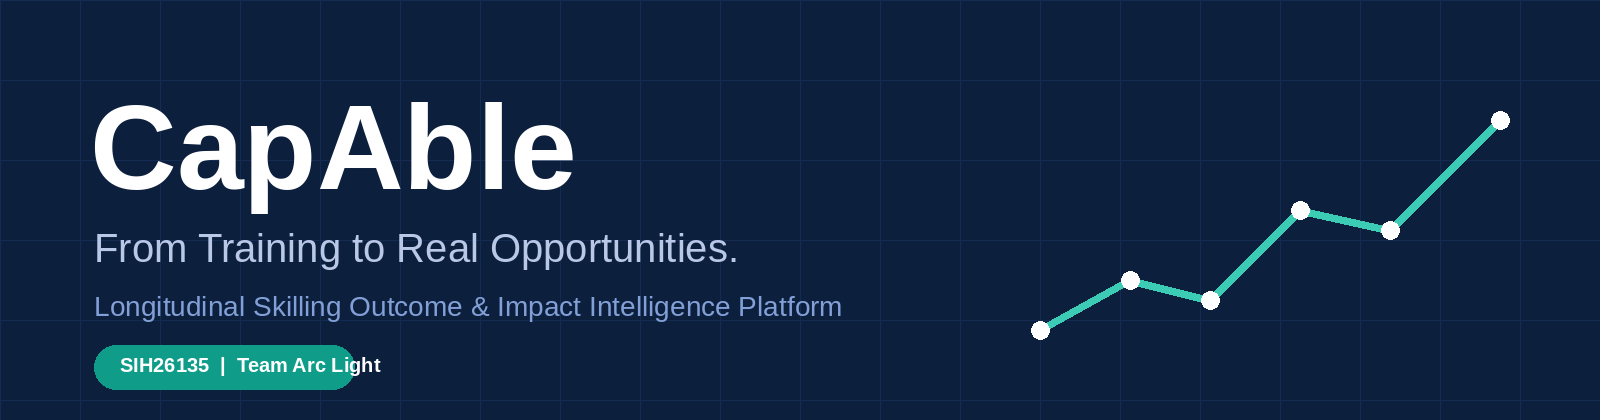
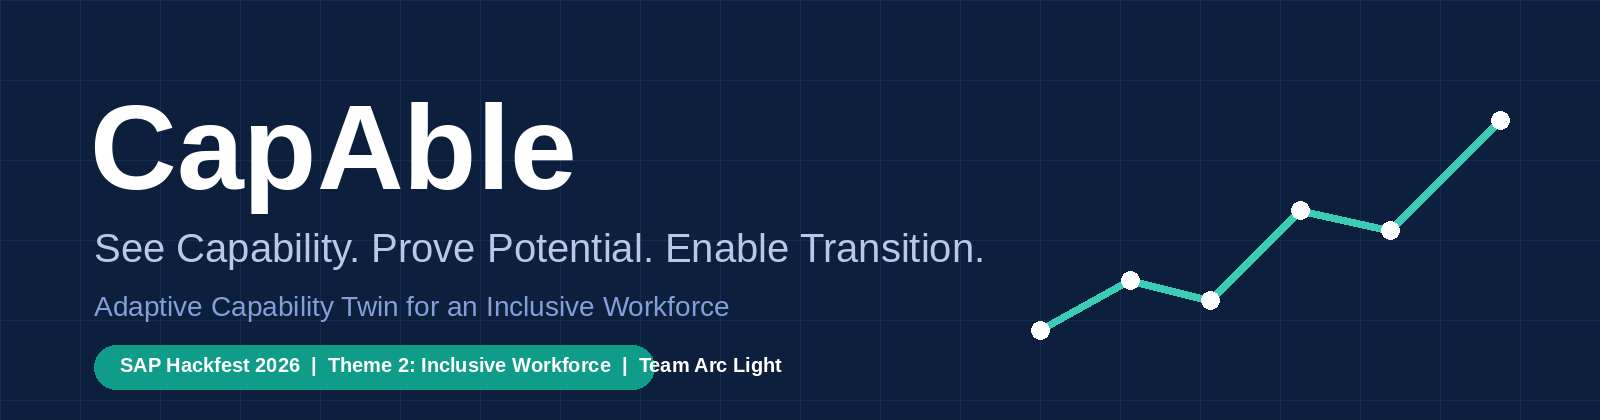
Add files via upload

Changed region(s): [[0.0625, 0.5571, 0.625, 0.65], [0.0625, 0.8048, 0.5, 0.9286], [0.0625, 0.7119, 0.5312, 0.7738]]

diff --git a/showcase/index.html b/showcase/index.html
@@ -3,7 +3,7 @@
 <head>
 <meta charset="utf-8">
 <meta name="viewport" content="width=device-width, initial-scale=1, viewport-fit=cover">
-<title>CapAble: From Training to Real Opportunities</title>
+<title>CapAble: See Capability. Prove Potential. Enable Transition.</title>
 <link rel="preconnect" href="https://fonts.googleapis.com">
 <link href="https://fonts.googleapis.com/css2?family=Manrope:wght@400;600;800&display=swap" rel="stylesheet">
 <style>
@@ -72,8 +72,8 @@ footer a{margin-right:16px;font-weight:600}
 
 <main id="top">
 <div class="hero">
-<h1>From training to real opportunities.</h1>
-<p class="lead">CapAble is an AI-powered platform connecting students, institutions and employers. Our SIH26135 goal is to follow trainees past course completion, so programmes can see what happens next.</p>
+<h1>See capability. Prove potential. Enable transition.</h1>
+<p class="lead">CapAble turns evidence of what people can actually do into a living Capability Twin, so hiring and career moves rest on capability, not pedigree. Built by Team Arc Light for SAP Hackfest 2026, Theme 2: Inclusive Workforce.</p>
 <div class="btns">
 <a class="btn p" href="https://capable-alpha.vercel.app" target="_blank" rel="noopener noreferrer">Explore live prototype</a>
 <a class="btn s" href="#video">Watch project demo</a>
@@ -102,8 +102,8 @@ footer a{margin-right:16px;font-weight:600}
 </section>
 
 <section id="gallery">
-<h2>The journey, from classroom to workplace</h2>
-<p class="sub">The people CapAble is built for, shown at each stage.</p>
+<h2>Who CapAble is built for</h2>
+<p class="sub">Candidates, institutions and employers around one capability record.</p>
 <div class="gal">
 <figure><svg viewBox="0 0 400 260" role="img" aria-label="Illustration: trainees seated in a classroom facing a board with a bar chart"><rect width="400" height="260" fill="#dbe8fb"/><rect x="90" y="24" width="220" height="100" rx="8" fill="#fff"/><g fill="#2354d6"><rect x="120" y="84" width="22" height="26"/><rect x="156" y="66" width="22" height="44"/><rect x="192" y="76" width="22" height="34"/><rect x="228" y="48" width="22" height="62" fill="#0f9d8a"/></g><rect y="220" width="400" height="40" fill="#b9cff2"/><use href="#p" x="50" y="150" width="40" height="80" fill="#0c1f3d"/><use href="#p" x="130" y="150" width="40" height="80" fill="#2354d6"/><use href="#p" x="210" y="150" width="40" height="80" fill="#0f9d8a"/><use href="#p" x="290" y="150" width="40" height="80" fill="#5b7bc4"/></svg>
 <figcaption><b>Training and certification</b><span>Learners build skills in classrooms and workshops.</span></figcaption></figure>
@@ -125,7 +125,7 @@ footer a{margin-right:16px;font-weight:600}
 </main>
 
 <footer><div class="wrap" style="padding:0">
-<p><b>CapAble</b> | Longitudinal Skilling Outcome &amp; Impact Intelligence Platform<br>Team Arc Light | SIH26135</p>
+<p><b>CapAble</b> | Adaptive Capability Twin for an Inclusive Workforce<br>Team Arc Light | SAP Hackfest 2026, Theme 2</p>
 <p><a href="https://capable-alpha.vercel.app" target="_blank" rel="noopener noreferrer">Prototype</a><a href="https://www.youtube.com/watch?v=InX9qLdTvsY" target="_blank" rel="noopener noreferrer">Demo video</a><a href="https://github.com/Devengoyal885/Access-Hire" target="_blank" rel="noopener noreferrer">Frontend code</a><a href="https://github.com/Devengoyal885/accesshireml" target="_blank" rel="noopener noreferrer">ML code</a></p>
 </div></footer>
 </div>

diff --git a/README.md b/README.md
@@ -1,25 +1,24 @@
 <p align="center">
-  <img src="assets/diagrams/banner.png" alt="CapAble: From Training to Real Opportunities" width="100%">
+  <img src="assets/diagrams/banner.png" alt="CapAble: See Capability. Prove Potential. Enable Transition." width="100%">
 </p>
 
 <p align="center">
   <a href="https://capable-alpha.vercel.app"><img alt="Live prototype" src="https://img.shields.io/badge/Live%20prototype-capable--alpha.vercel.app-2354d6"></a>
   <a href="https://www.youtube.com/watch?v=InX9qLdTvsY"><img alt="Demo video" src="https://img.shields.io/badge/Demo-YouTube-c4302b"></a>
-  <img alt="SIH26135" src="https://img.shields.io/badge/SIH-26135-0f9d8a">
+  <img alt="SAP Hackfest 2026" src="https://img.shields.io/badge/SAP%20Hackfest-2026-0070f3">
+  <img alt="Theme 2" src="https://img.shields.io/badge/Theme%202-Inclusive%20Workforce-0f9d8a">
   <img alt="Team" src="https://img.shields.io/badge/Team-Arc%20Light-0c1f3d">
 </p>
 
-# CapAble
+# CapAble: Adaptive Capability Twin for an Inclusive Workforce
 
-**Longitudinal Skilling Outcome & Impact Intelligence Platform**
+> A résumé is a claim. A Capability Twin is a record.
 
-> Training completion is not the finish line. CapAble is built to measure what happens next.
-
-CapAble is our response to **SIH26135: difficulties in tracking employment outcomes, skill gaps, and the impact of skilling initiatives.** It connects students, training institutions and employers around one evidence-based record of capability, so programmes can see which skills turn into real opportunities and where the gaps are.
+CapAble is Team Arc Light's entry for **SAP Hackfest 2026 (IIIT Delhi), Theme 2: Inclusive Workforce.** It makes what a person can actually do visible, checks it through practical work, and keeps that record up to date, so hiring and career moves are decided on capability instead of pedigree, degree titles or career gaps.
 
 ## Contents
 
-[Quick links](#quick-links) · [Problem](#the-problem) · [Approach](#our-approach) · [Demo](#demo-video) · [Status](#project-status-what-is-built-and-what-is-not) · [Capability engine](#the-capability-twin-engine) · [Architecture](#architecture) · [ML service](#ml-service) · [Run locally](#run-the-frontend-locally) · [Gallery](#gallery) · [Roadmap](#roadmap) · [Privacy](#privacy-and-responsible-use) · [Team](#team)
+[Quick links](#quick-links) · [Problem](#the-problem) · [Solution](#our-solution) · [Demo](#demo-video) · [Theme 2 fit](#how-capable-fits-theme-2) · [Status](#project-status-what-is-built-and-what-is-not) · [Capability engine](#the-capability-twin-engine) · [Architecture](#architecture) · [ML service](#ml-service) · [Run locally](#run-the-frontend-locally) · [Gallery](#gallery) · [Roadmap](#roadmap) · [Responsible AI](#responsible-ai-and-privacy) · [Team](#team)
 
 ## Quick links
 
@@ -35,29 +34,28 @@ CapAble is our response to **SIH26135: difficulties in tracking employment outco
 
 ## The problem
 
-Skilling programmes report how many people completed training. Few can say what happened afterwards: who found work, who kept the job, whose wages grew, and which missing skills held people back. Without that follow-up data, institutions cannot improve courses and administrators cannot compare programmes fairly.
+Talent is not scarce, but capability is often hidden. Static résumés, degree and employer-name filters, self-declared skills and career gaps push capable people out of the funnel. Employers, in turn, cannot easily verify what a candidate can do, and institutions cannot see the real skill picture of their students.
 
-<p align="center"><img src="assets/diagrams/stakeholders.png" alt="One platform serving trainees, training providers, employers and programme administrators" width="90%"></p>
+<p align="center"><img src="assets/diagrams/stakeholders.png" alt="One capability record serving candidates, institutions, employers and human reviewers" width="90%"></p>
 
-## Our approach
+## Our solution
 
-CapAble follows a five-step loop. Each step feeds the next, and the last step feeds back into the first.
+CapAble replaces the static résumé with a **living Capability Twin** and moves each person through one loop: understand evidence, translate it to capabilities, find the gap to a target role, verify with practical work, and match fairly.
 
-<p align="center"><img src="assets/diagrams/workflow.png" alt="Track, verify, analyze, act and re-measure workflow with a feedback loop" width="100%"></p>
+<p align="center"><img src="assets/diagrams/workflow.png" alt="Understand, translate, find the gap, verify, match fairly, with a feedback loop to the Capability Twin" width="100%"></p>
 
 ```mermaid
 flowchart LR
-  A[Training and certification] --> B[Consent-based trainee record]
-  B --> C[Follow-ups and outcome collection]
-  C --> D[Employer confirmation]
-  D --> E[Longitudinal analysis]
-  E --> F[Skill-gap findings]
-  F --> G[Targeted intervention]
-  G --> H[Re-measurement]
-  H -.-> C
+  A[Evidence: resume, projects, work] --> B[Capability Translator]
+  B --> C[Capability Twin]
+  C --> D[Role-specific skill gap]
+  D --> E[Shortest learning path]
+  D --> F[Practical verification]
+  F --> G[Verified evidence]
+  G --> C
+  C --> H[Opportunity match + bias audit]
+  H --> I[Human decision]
 ```
-
-This is the target workflow for SIH26135. The [status section](#project-status-what-is-built-and-what-is-not) says which parts exist today.
 
 ## Demo video
 
@@ -65,37 +63,56 @@ This is the target workflow for SIH26135. The [status section](#project-status-w
 
 Click the image to watch the demo on YouTube.
 
+## How CapAble fits Theme 2
+
+SAP's Hackfest 2026 page describes the Inclusive Workforce theme as designing systems where fairness is an architectural principle, and it expects solutions where each agent has a clear role and explicit handoffs to humans. The table maps our work to that, based on a read of the code in the linked repositories.
+
+| Theme 2 idea | What CapAble does | Status |
+|---|---|---|
+| Make skills visible beyond a résumé | Capability Translator: FastAPI service with an `all-mpnet-base-v2`-based model against a 469-capability taxonomy, with an explainability breakdown | In the repositories |
+| Learning and reskilling | Learning-pathway agent (Gemini) and a data file of SAP Learning Hub courses | In the repositories |
+| Fair matching | Opportunity-match agent, with an evidence trail for each match | In the repositories |
+| Fairness as architecture | Bias-audit agent (Gemini) and an enterprise workforce console; AI recommends and a human decides | Bias-audit route in the repositories; broader fairness agents planned |
+| Accessibility | Synapse UI toggle for OpenDyslexic type and high-contrast reading modes | In the repositories |
+| Proof of capability | 4-step practical verification flow shown in the Action Center | Prototype flow; automatic task generation and scoring not built |
+| People and skills data | Demo personas in `lib/mockData.ts` | Demo data only |
+
+> Note for the team: we could not open SAP's full theme brief, only its public summary. Paste the exact Theme 2 problem statement into this section so the wording matches what judges will read.
+
 ## Project status: what is built and what is not
 
-We would rather be exact than impressive. The numbers below come from our internal codebase audit dated 2026-09-25.
+We would rather be exact than impressive.
+
+**In the frontend and ML repositories (verified by reading the code):**
+- Next.js app with dashboard, capability, opportunities, resume, actions, workspace, workforce, profile and roadmap pages.
+- Four server-side agent routes: `translate-capability`, `learning-pathway`, `opportunity-match`, `bias-audit`.
+- FastAPI ML service with four endpoints and precomputed capability embeddings.
+- Synapse UI accessibility toggle.
+- Demo data uses sample personas, not real people.
+
+**Deployed prototype (capable-alpha.vercel.app):** an internal audit dated 2026-09-25 found **40 of 137 audited features fully built, 13 partial or new, and 84 not built.**
 
 <p align="center"><img src="assets/diagrams/feature_audit.png" alt="Stacked bar chart of fully built, partial and not-built features across nine areas, 40 of 137 fully built" width="90%"></p>
 
-**40 of 137 audited features are fully built, 13 are partial or newly added, and 84 are not built yet.** The prototype covers:
-
 | Area | Working today |
 |---|---|
-| Candidate career | AI career-path mapping, skill-gap analysis, personalised learning paths, QR-linked verifiable certificates, public profile, portfolio with GitHub sync, resume tailoring, ATS score |
-| Interview prep | AI voice mock interview, session history and statistics, live filler-word counter |
-| Institution (TPO) | Placement dashboard, bulk CSV student invite, NAAC/NIRF report, faculty dashboard, CSV skill-matrix export |
+| Candidate career | AI career-path mapping, skill-gap analysis, personalised learning paths, QR-linked certificates, public profile, portfolio with GitHub sync, resume tailoring, ATS score |
+| Interview prep | AI voice mock interview, session history and statistics, filler-word counter |
+| Institution | Placement dashboard, bulk CSV invite, NAAC/NIRF report, faculty dashboard, skill-matrix export |
 | Employer | Role posting, candidate pipeline, offer-letter generation, interview scheduling |
-| Platform | Role-based Firestore security rules, in-app notifications, dark mode |
+| Platform | Role-based security rules, in-app notifications, dark mode |
 
-**SIH26135-specific features that are not built yet** (see [Roadmap](#roadmap)): automated trainee follow-ups, employer confirmation of employment and retention, longitudinal wage and attrition analytics, and outcome-driven intervention tracking. The existing institution dashboard, pipeline and skill-gap analysis are the foundation these will build on.
-
-Full detail: [`docs/FEATURE_AUDIT.md`](docs/FEATURE_AUDIT.md).
+**Not built yet:** equity-nudge and job-fairness agents, automated bias-audit reports in the deployed app, auto-scored practical tasks, WCAG compliance, mobile app. Details: [`docs/FEATURE_AUDIT.md`](docs/FEATURE_AUDIT.md).
 
 ## The Capability Twin engine
 
-The repositories linked above implement the AccessHire **Adaptive Capability Twin**, the skills-intelligence layer behind CapAble. A résumé is a claim; a Capability Twin is a record that is updated whenever new evidence arrives.
-
 <p align="center"><img src="assets/diagrams/capability_loop.png" alt="Closed loop: evidence to Capability Twin to skill gap to practical task to evaluation to verified evidence and back to the Twin" width="90%"></p>
 
-A Twin describes six dimensions of each capability: **proficiency, context, evidence, confidence, recency and autonomy.** Capabilities are inferred from free text using an `all-mpnet-base-v2`-based model against a 469-capability taxonomy, then shown with an explainability breakdown (semantic similarity, keyword overlap, evidence weighting).
+A Twin describes six dimensions of each capability: **proficiency, context, evidence, confidence, recency and autonomy.** The loop is the core idea: new work becomes new evidence, which updates the Twin and improves future matching. Verification is a flow in the prototype today; the automated scoring step is planned.
 
 ## Architecture
 
-<p align="center"><img src="assets/diagrams/architecture.png" alt="Layered system architecture: users, Next.js web app, AI and data services, planned outcome-tracking services, outputs" width="100%"></p>
+<p align="center"><img src="assets/diagrams/architecture.png" alt="Layered system architecture: users, Next.js web app, AI and data services, inclusive-workforce layer, outputs" width="100%"></p>
 
 Solid boxes exist in the repositories. Dashed boxes are planned.
 
@@ -104,22 +121,23 @@ Solid boxes exist in the repositories. Dashed boxes are planned.
 | Web app | Next.js 16.3.1, React 19, TypeScript, Tailwind CSS 4, Framer Motion, Recharts, Zustand, lucide-react | `Access-Hire/package.json` |
 | Server API routes | `translate-capability`, `learning-pathway`, `opportunity-match`, `bias-audit` | `Access-Hire/app/api/agents/` |
 | ML inference | FastAPI, sentence-transformers, PyTorch 2.3.1 (CPU), scikit-learn, pandas | `accesshireml/requirements.txt`, `Dockerfile` |
-| Generative agents | Google Gemini | `Access-Hire/lib/gemini.ts` |
+| Generative agents | Google Gemini Flash | `Access-Hire/lib/gemini.ts` |
 | Authentication | Supabase (see `.env.example`) | `Access-Hire/.env.example` |
+| Accessibility | Synapse context (OpenDyslexic, high contrast) | `Access-Hire/lib/synapse-context.tsx` |
 | Deployment | Frontend on Vercel; ML service ships with a Dockerfile | live prototype, `accesshireml/Dockerfile` |
 
-The live prototype's feature audit also lists Firestore, a Vapi-based voice interview and Firebase email triggers. Those belong to the deployed CapAble application, so treat the table above as the stack of the two linked repositories, and check the deployed app's own code for the rest.
+The deployed prototype's audit also mentions Firestore, a Vapi voice interview and Firebase email triggers. Those belong to the deployed app, so check its own code for them.
 
 ## ML service
 
-The `accesshireml` repository is a FastAPI service with a precomputed capability-embedding file (`capability_embeddings.npy`), the capability list (`capability_names.json`) and a CSV in `data/`. Its endpoints, from `app/main.py`:
+The `accesshireml` repository is a FastAPI service with a precomputed embedding file (`capability_embeddings.npy`), a capability list (`capability_names.json`) and a CSV in `data/`.
 
 | Method | Path | Purpose |
 |---|---|---|
 | GET | `/` | Service info |
 | GET | `/health` | Health check |
 | GET | `/capabilities` | List known capabilities |
-| POST | `/infer-capabilities` | Infer capabilities from free text (`text`, optional `top_k` from 1 to 20, default 8) |
+| POST | `/infer-capabilities` | Infer capabilities from free text (`text`, optional `top_k` 1 to 20, default 8) |
 
 ```bash
 git clone https://github.com/Devengoyal885/accesshireml.git
@@ -129,10 +147,10 @@ uvicorn app.main:app --host 0.0.0.0 --port 8000
 
 curl -X POST http://localhost:8000/infer-capabilities \
   -H "Content-Type: application/json" \
-  -d '{"text": "Managed a community workshop and built a budgeting spreadsheet", "top_k": 5}'
+  -d '{"text": "Led a volunteer team and built a budgeting spreadsheet", "top_k": 5}'
 ```
 
-The repository has no README of its own, and we have not published accuracy figures. Read the [model card](https://huggingface.co/Devengoyal/accesshire-mpnet-final) for what it documents.
+The repository has no README and we publish no accuracy figures. See the [model card](https://huggingface.co/Devengoyal/accesshire-mpnet-final) for what it documents.
 
 ## Run the frontend locally
 
@@ -146,55 +164,51 @@ cp .env.example .env.local     # then fill in your own values
 npm run dev                    # http://localhost:3000
 ```
 
-Environment variables (from `.env.example`):
-
 | Variable | Used for |
 |---|---|
 | `GOOGLE_GEMINI_API_KEY` | Server-side Gemini calls |
-| `NEXT_PUBLIC_GEMINI_API_KEY` | Exposed to the browser. Avoid this in production and use only the server-side key |
+| `NEXT_PUBLIC_GEMINI_API_KEY` | Exposed to the browser. Avoid in production; use the server-side key |
 | `NEXT_PUBLIC_SUPABASE_URL`, `NEXT_PUBLIC_SUPABASE_ANON_KEY` | Supabase authentication |
 | `ACCESSHIRE_ML_API_URL` | URL of the running ML service |
 
-Never commit real keys. Other scripts: `npm run build`, `npm run start`, `npm run lint`. This repository's `AGENTS.md` notes that Next.js 16 has breaking changes, so read the docs in `node_modules/next/dist/docs/` before changing framework-level code.
+Never commit real keys. Other scripts: `npm run build`, `npm run start`, `npm run lint`. The repository's `AGENTS.md` warns that Next.js 16 has breaking changes, so read `node_modules/next/dist/docs/` before framework-level changes.
 
 ## Gallery
 
-The images below are illustrations, not screenshots of the app. Add real screenshots in [`assets/screenshots/`](assets/screenshots/README.md).
+These are illustrations, not screenshots. Add real screenshots in [`assets/screenshots/`](assets/screenshots/README.md).
 
 <table>
   <tr>
-    <td align="center"><img src="assets/illustrations/training.png" alt="Trainees in a classroom facing a bar chart" width="320"><br><sub>Training and certification</sub></td>
-    <td align="center"><img src="assets/illustrations/placement-drive.png" alt="Students outside a campus building with a placement banner" width="320"><br><sub>Campus placement drives</sub></td>
+    <td align="center"><img src="assets/illustrations/training.png" alt="Learners in a classroom facing a bar chart" width="320"><br><sub>Learning and upskilling</sub></td>
+    <td align="center"><img src="assets/illustrations/placement-drive.png" alt="Students outside a campus building with a placement banner" width="320"><br><sub>Institutions and placements</sub></td>
   </tr>
   <tr>
-    <td align="center"><img src="assets/illustrations/employer-verification.png" alt="Candidate and employer across a desk with a check mark" width="320"><br><sub>Employer verification</sub></td>
-    <td align="center"><img src="assets/illustrations/impact-analytics.png" alt="Administrator beside a screen with a rising line chart" width="320"><br><sub>Impact analytics</sub></td>
+    <td align="center"><img src="assets/illustrations/employer-verification.png" alt="Candidate and employer across a desk with a check mark" width="320"><br><sub>Verified capability</sub></td>
+    <td align="center"><img src="assets/illustrations/impact-analytics.png" alt="Reviewer beside a screen with a rising line chart" width="320"><br><sub>Workforce insight</sub></td>
   </tr>
 </table>
 
 ## Roadmap
 
-From our audit's prioritised list, plus the SIH26135 outcome-tracking work.
-
 | Phase | Work |
 |---|---|
-| Now: fix first | Move the Gemini key behind a backend (it is exposed in the frontend today), install the Firebase "Trigger Email" extension so queued emails send, add the institution drive-management admin UI, show job recommendations in the opportunities page |
-| Next: outcome tracking | Trainee follow-up scheduler, employer confirmation of status, role and retention, longitudinal store by cohort and course, wage, retention and attrition analytics |
-| Then: assessment and polish | Larger question bank, randomised order and review flags, automated shortlisting rules, employer funnel analytics, campus drive calendar |
-| Later: scale | PWA and browser push notifications, WhatsApp alerts, ERP/LMS integration, multilingual support, WCAG accessibility work |
+| Before the final | Move the Gemini key behind a backend, replace the demo-data paths with one clean flow, record a short demo of the loop end to end |
+| Next | Auto-generated and auto-scored practical tasks, equity-nudge and job-fairness agents, bias-audit reports in the deployed app |
+| Then | Institution drive-management admin UI, job recommendations in the opportunities page, employer funnel analytics |
+| Later | PWA and notifications, WCAG accessibility work, multilingual support, enterprise HR integrations |
 
-## Privacy and responsible use
+## Responsible AI and privacy
 
-- Trainee records are intended to be **consent-based**, with **role-based access** (Firestore security rules are in place in the prototype).
-- Reported and verified outcomes must stay clearly separate once outcome tracking is built.
-- Capability and outcome scores support human decisions and do not replace them.
-- We make no legal-compliance claims. Do not load real personal data into the prototype or share datasets without permission.
+- AI recommends and a human decides. Match and bias-audit outputs are meant for human review.
+- Every capability carries evidence and an explanation, so a result can be questioned.
+- Role-based security rules protect data in the deployed prototype.
+- We make no compliance claims. Keep real personal data out of the demo and share datasets only with permission.
 
 ## Team
 
 **Arc Light** — Deven, Rishabh Verma, Aditya Singh, V. Naveen Shankar, Ansh Chaudhary, Parkhee Jha.
 
-Smart India Hackathon, problem statement **SIH26135**.
+SAP Hackfest 2026, IIIT Delhi, Theme 2: Inclusive Workforce.
 
 ## License
 

diff --git a/docs/FEATURE_AUDIT.md b/docs/FEATURE_AUDIT.md
@@ -1,6 +1,6 @@
 # CapAble feature audit (summary)
 
-Source: internal codebase inspection, 2026-09-25. Legend: built = component, service and route exist and work; partial = incomplete or UI-only; new = added recently and needs testing; not built = does not exist.
+Source: internal inspection of the deployed CapAble prototype (capable-alpha.vercel.app), 2026-09-25. This audit covers the deployed app, not the Access-Hire and accesshireml repositories. Legend: built = component, service and route exist and work; partial = incomplete or UI-only; new = added recently and needs testing; not built = does not exist.
 
 | Area | Total | Built | Partial / new | Not built |
 |---|---:|---:|---:|---:|
